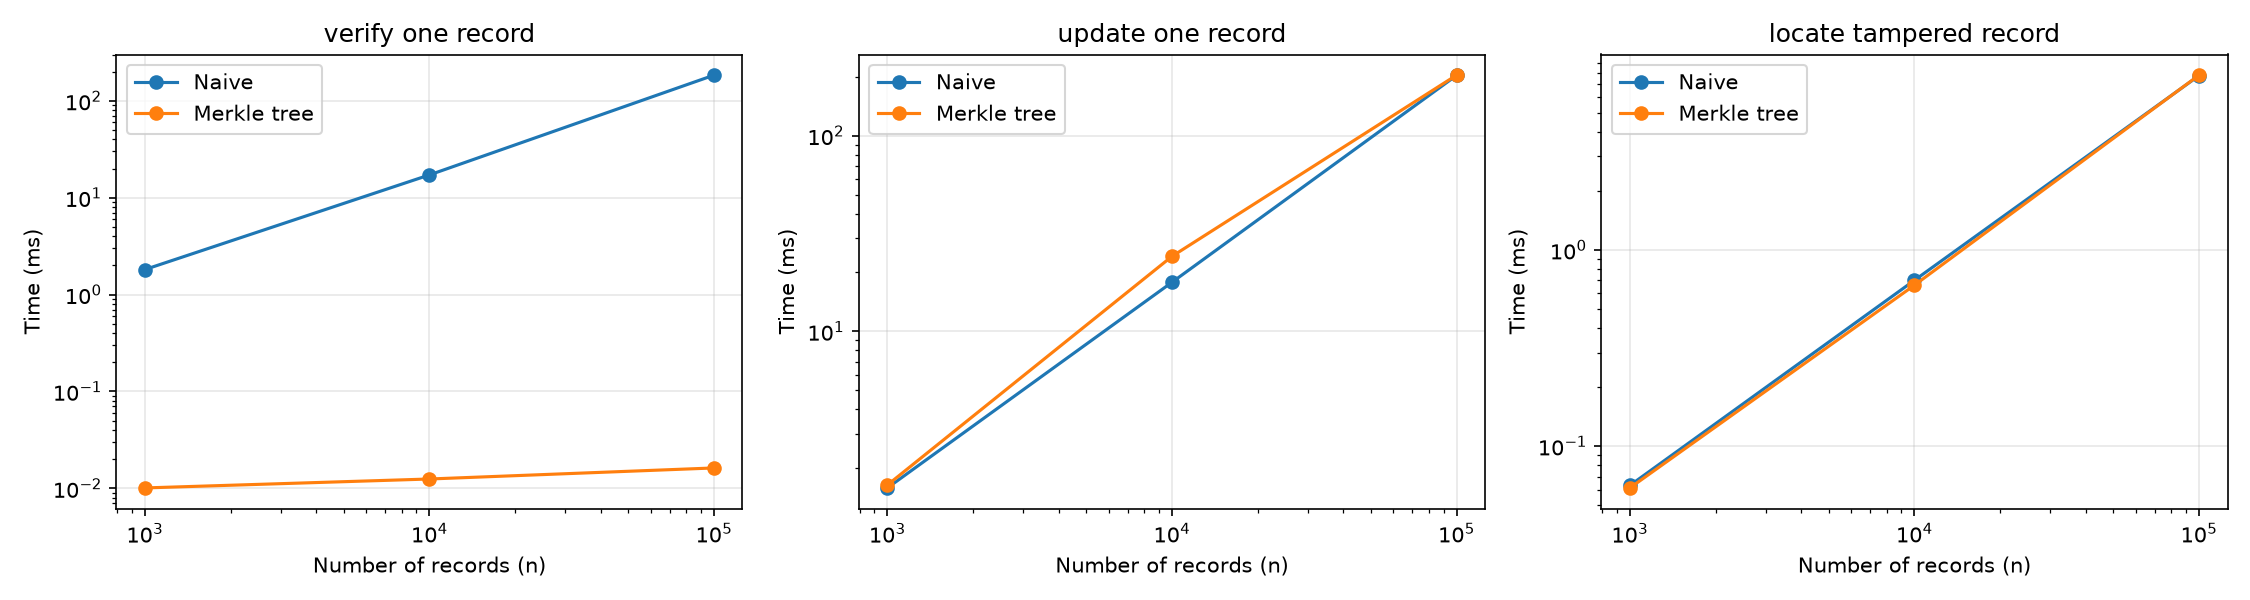
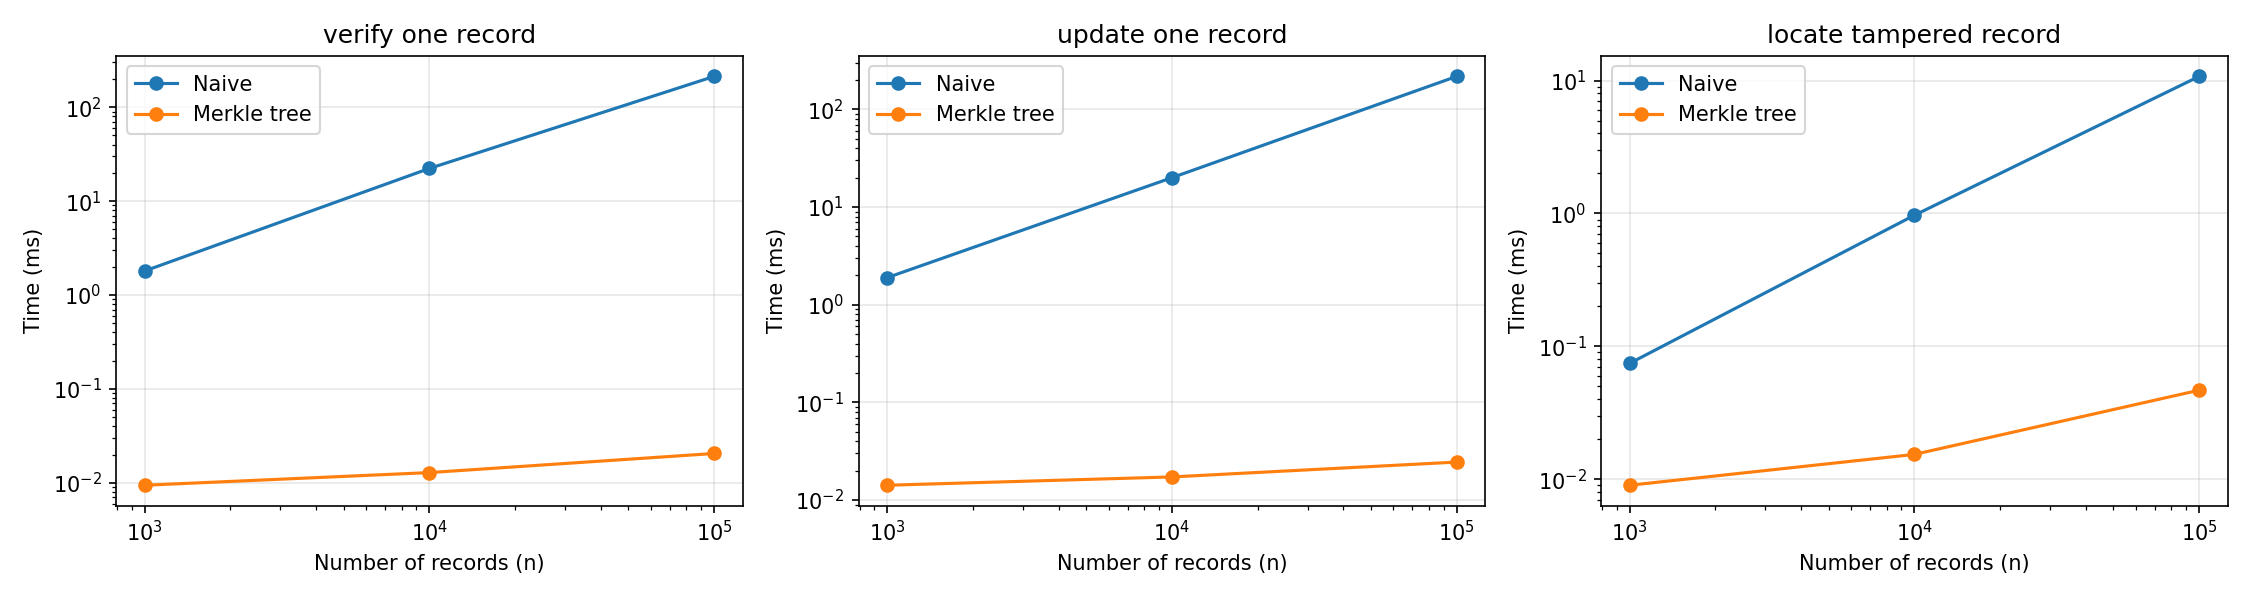
review: regenerate benchmark results and update docs with measured numbers
The previous results came from the flawed update and locate benchmarks and showed no improvement. Regenerated results.csv and results.png after the fixes, replaced the placeholder benchmark doc (stray escapes, no data) with a results table and explanation, and filled in the benchmark summary in the report outline.

diff --git a/docs/benchmark-results.md b/docs/benchmark-results.md
@@ -1,66 +1,36 @@
-\# VeriLeaf Benchmark Results
+# VeriLeaf Benchmark Results
 
+![Benchmark graph](../results.png)
 
+## What was measured
 
-\## Objective
+Three operations were timed for n = 1,000, 10,000, and 100,000 records:
 
+- **Verify one record** — rebuild the whole tree from every record and compare roots (naive) vs. check a Merkle proof (tree).
+- **Update one record** — rebuild the whole tree after changing one record (naive) vs. call `tree.update` which recomputes only the path from the changed leaf to the root (tree).
+- **Locate a tampered record** — scan every leaf hash until one differs (naive) vs. walk down the tree with `find_changed`, skipping any subtree whose root hash already matches (tree).
 
+## Results
 
-This benchmark compares a naive verification approach with Merkle-tree-based verification and measures the performance of selected VeriLeaf operations as the number of records increases.
+| n | Task | Naive (ms) | Tree (ms) |
+|---|---|---:|---:|
+| 1,000 | verify one record | 1.8040 | 0.0094 |
+| 1,000 | update one record | 1.8942 | 0.0142 |
+| 1,000 | locate tampered record | 0.0744 | 0.0090 |
+| 10,000 | verify one record | 22.2804 | 0.0129 |
+| 10,000 | update one record | 19.9797 | 0.0173 |
+| 10,000 | locate tampered record | 0.9688 | 0.0153 |
+| 100,000 | verify one record | 212.6494 | 0.0205 |
+| 100,000 | update one record | 217.5706 | 0.0245 |
+| 100,000 | locate tampered record | 10.7501 | 0.0467 |
 
+## What the graph shows
 
+For all three tasks, the naive time grows roughly in proportion to n (multiplying n by 10 multiplies the naive time by about 10). The tree times stay nearly flat across all values of n. At n = 100,000, the tree is approximately 10,000 times faster than the naive approach for verify and update, and about 230 times faster for locate.
 
-\## Methodology
+The axes are logarithmic so that both the flat tree lines and the steeply rising naive lines are visible on the same plot. On a linear scale the tree times would be indistinguishable from zero.
 
+## Limitations
 
-
-\- Generate sample records using `datasets.py`.
-
-\- Measure operation runtimes using `benchmark.py`.
-
-\- Save the measurements in `results.csv`.
-
-\- Visualize the results using `plot\_results.py`.
-
-
-
-\## Results
-
-
-
-The benchmark measurements are recorded in `results.csv`, and the corresponding graph is saved as `results.png`.
-
-
-
-Actual performance conclusions should be added after reviewing the measured results. Runtime can vary with hardware, Python version, and dataset size.
-
-
-
-\## Limitations
-
-
-
-The measurements are specific to the test environment. Benchmark timings alone do not establish theoretical time complexity, and comparisons should use equivalent inputs and clearly defined operations.
-
-
-
-\## Reproducibility
-
-
-
-Install dependencies with:
-
-
-
-```powershell
-
-python -m pip install -r requirements.txt
-
-```
-
-
-
-Run the benchmark and graph-generation scripts from the project root. Ensure the project dependencies and expected CSV column names match the scripts.
-
-
-
+- Timings depend on hardware, operating system, and Python version; results on other machines may differ.
+- Building the tree is still O(n) and is not included in any of the timed operations above; the tree is always constructed outside the measured section.

diff --git a/docs/report-outline.md b/docs/report-outline.md
@@ -18,7 +18,7 @@ Building the tree takes O(n) time for n records. Verifying one record using a Me
 
 ## 5. Benchmark Results
 
-The project includes benchmarking tools to compare Merkle-tree operations with a straightforward approach that rechecks records. The benchmark output and graph should be included here after running the benchmark. Explain the actual results observed rather than assuming a performance improvement.
+Benchmarks were run for n = 1,000, 10,000, and 100,000 records across three tasks: verify one record, update one record, and locate a tampered record. In every case the naive approach (rebuilding the full tree) scaled roughly in proportion to n, reaching about 213 ms for verify and 218 ms for update at n = 100,000, while the tree-based operations stayed below 0.05 ms regardless of n. The locate task showed a similar gap: the naive leaf-scan took 10.75 ms at n = 100,000 while `find_changed` took 0.047 ms, a ratio of roughly 230×. These results confirm that the Merkle-tree operations achieve the expected O(log n) scaling in practice, compared with O(n) for the naive alternatives.
 
 ## 6. Demonstration
 
